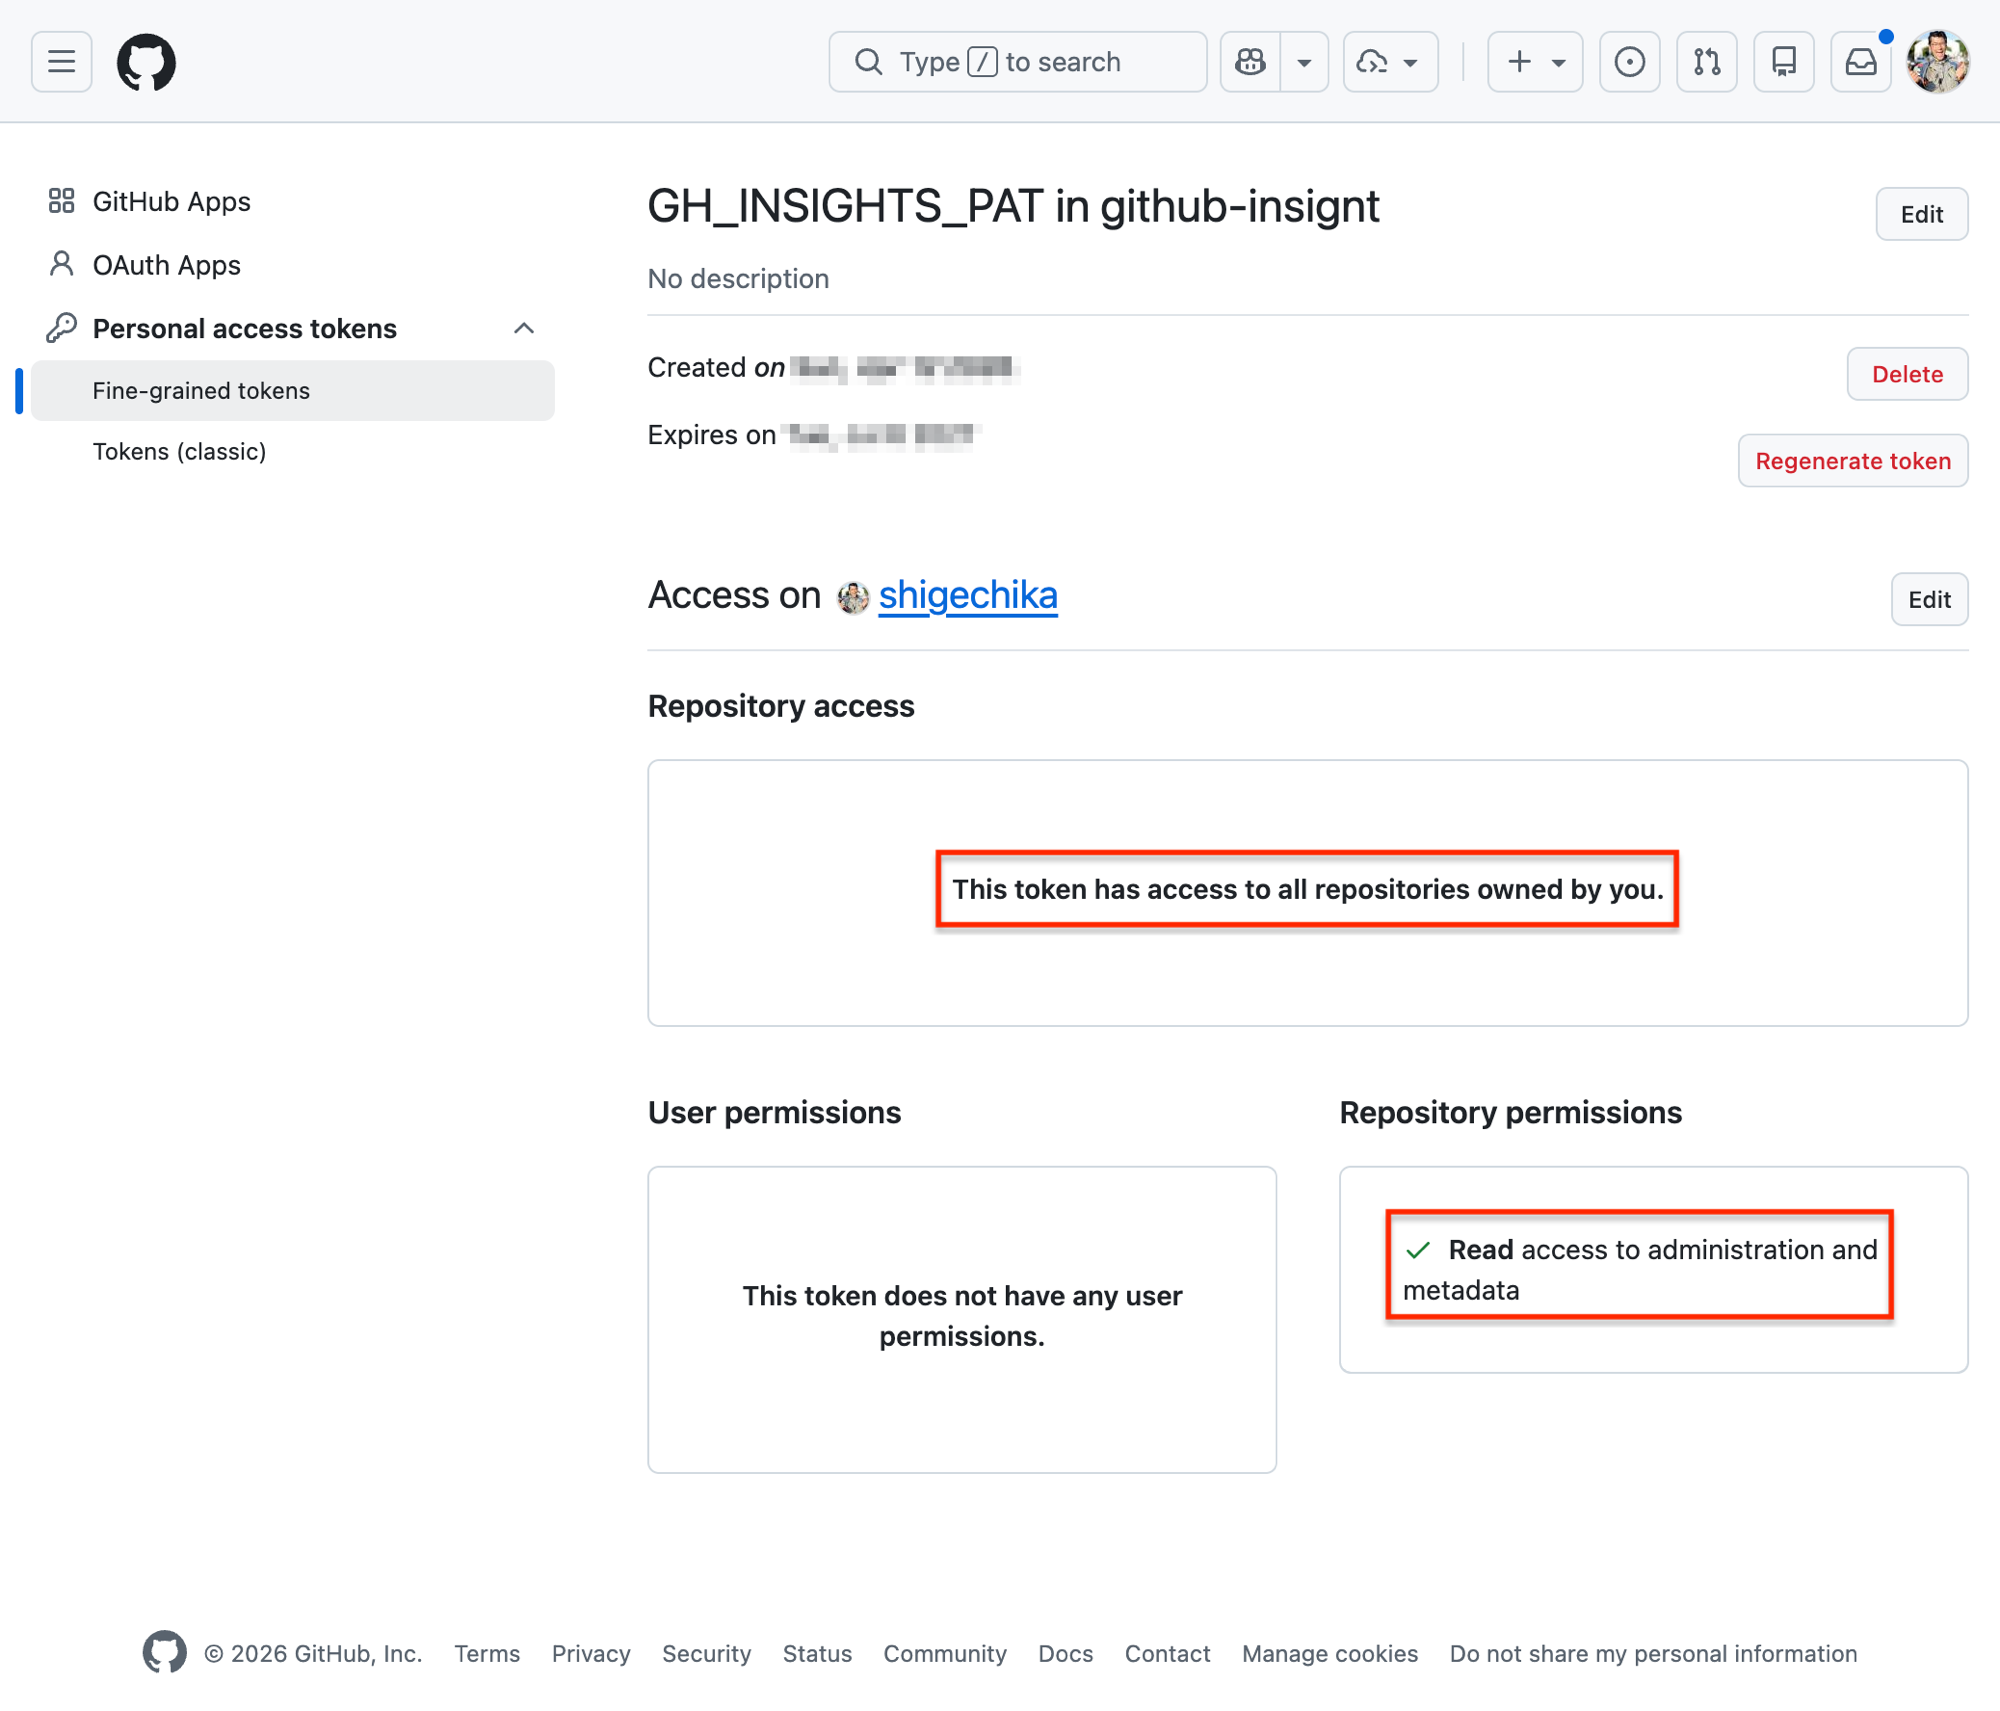
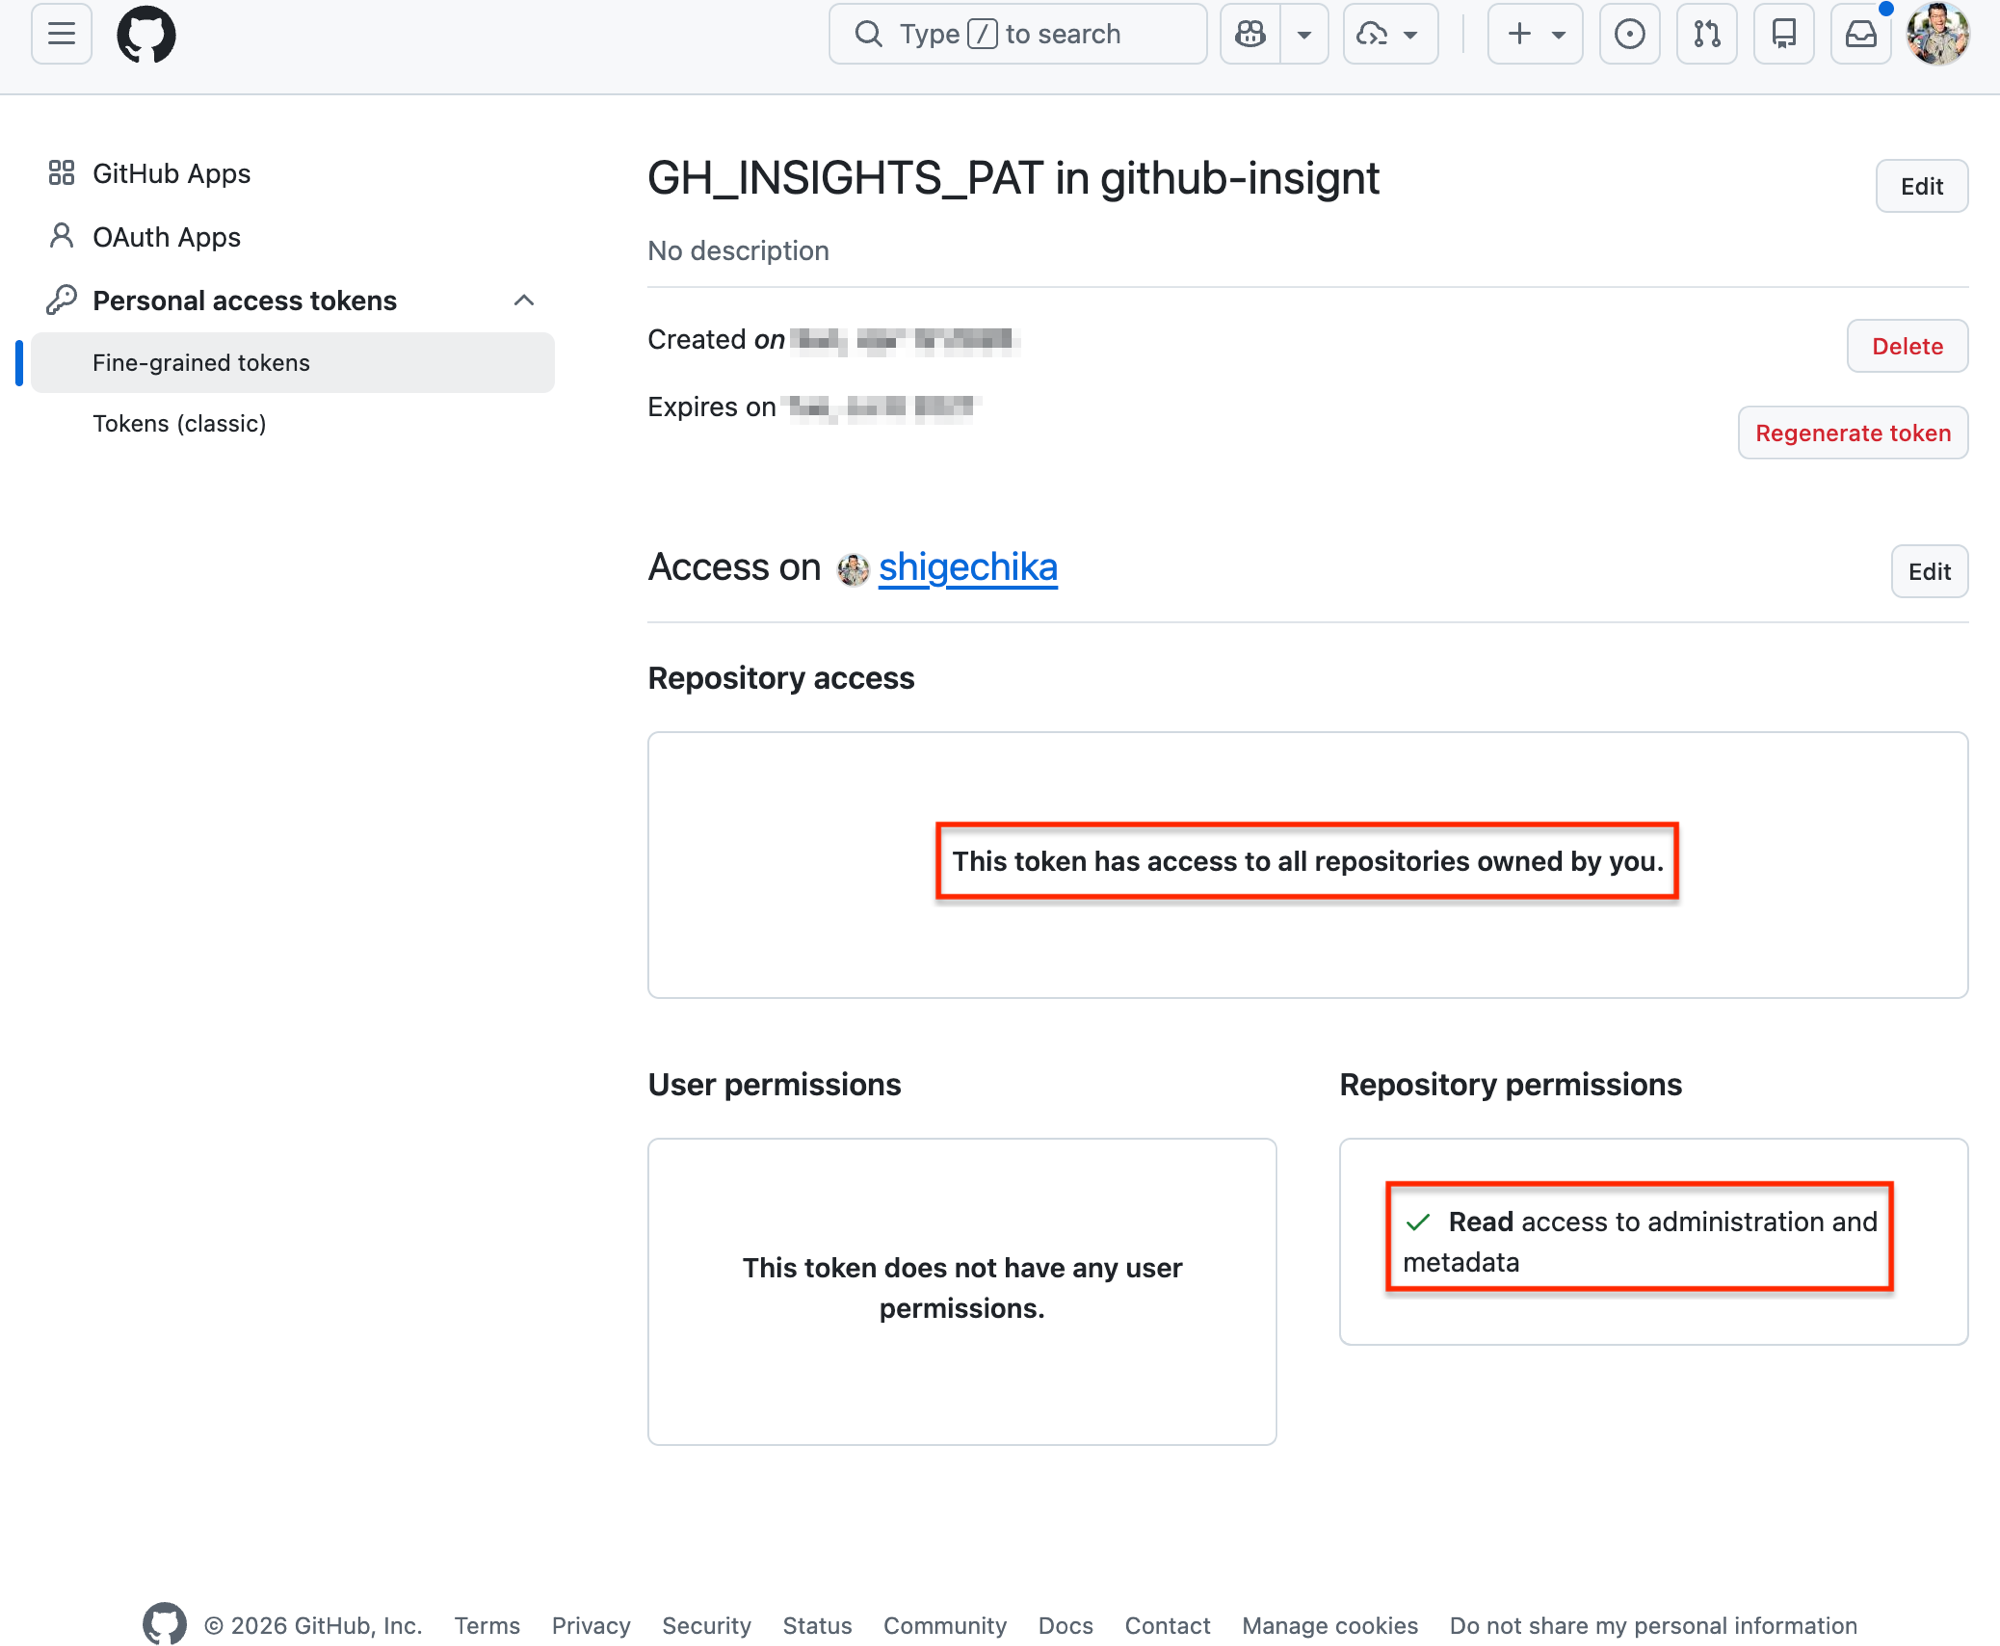
docs: fix inconsistent image widths between screenshot and PAT example
The new PAT permissions screenshot and the dashboard screenshot were
both plain markdown images with no explicit size, so they could
render at different widths depending on where GitHub shows them (e.g.
the PR "Files changed" tab scales each image independently). Pin both
to width=800 via HTML <img> tags, and trim ~65px of blank margin from
the bottom of the PAT screenshot.

Claude-Session: https://claude.ai/code/session_013uex9GmzBN7rV6QHHhwNkw

diff --git a/README.md b/README.md
@@ -6,7 +6,7 @@ English | [日本語](README.ja.md)
 
 **Live dashboard**: https://shigechika.github.io/github-insights/
 
-[![Dashboard screenshot](docs/screenshot.png)](https://shigechika.github.io/github-insights/)
+<a href="https://shigechika.github.io/github-insights/"><img width="800" alt="Dashboard screenshot" src="docs/screenshot.png"></a>
 
 <!-- CHARTS:START -->
 ## Insights
@@ -113,7 +113,7 @@ Click **Use this template → Create a new repository** at the top of this repo 
 
    > **Note**: Although "All repositories" grants access to your private repos as well, this tool targets **public repositories only** — `scripts/collect.sh` lists them with `gh api users/<owner>/repos?type=public`. The PAT is scoped to **read-only** via the Administration permission, keeping the required access to the minimum necessary.
 
-   ![Example fine-grained PAT permissions: all repositories owned by you, read access to administration and metadata](docs/pat-permissions-example.png)
+   <img width="800" alt="Example fine-grained PAT permissions: all repositories owned by you, read access to administration and metadata" src="docs/pat-permissions-example.png">
 3. **Add the token as a secret** named `GH_INSIGHTS_PAT` (Settings → Secrets and variables → Actions → New repository secret).
 4. **Enable GitHub Pages** at Settings → Pages:
    - Source: **Deploy from a branch**
